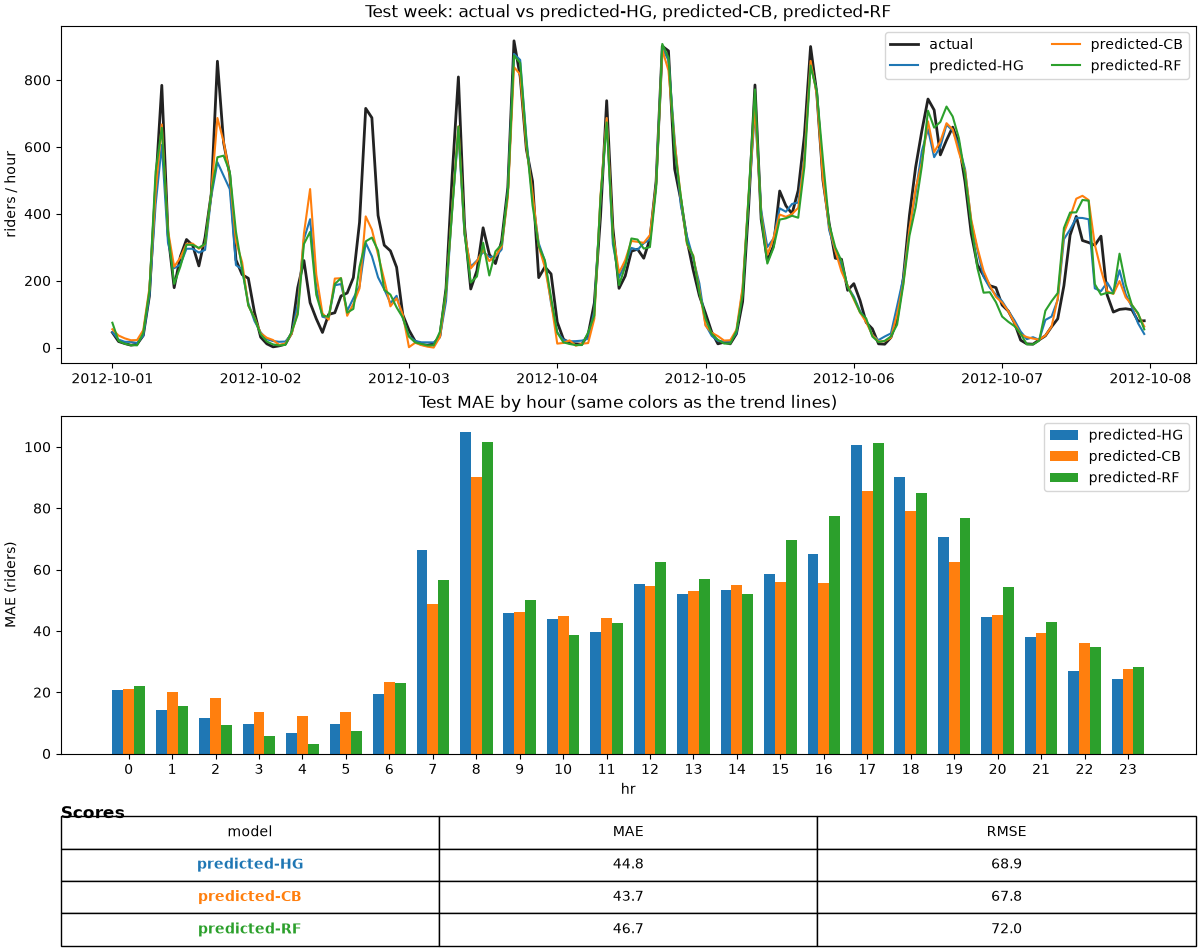
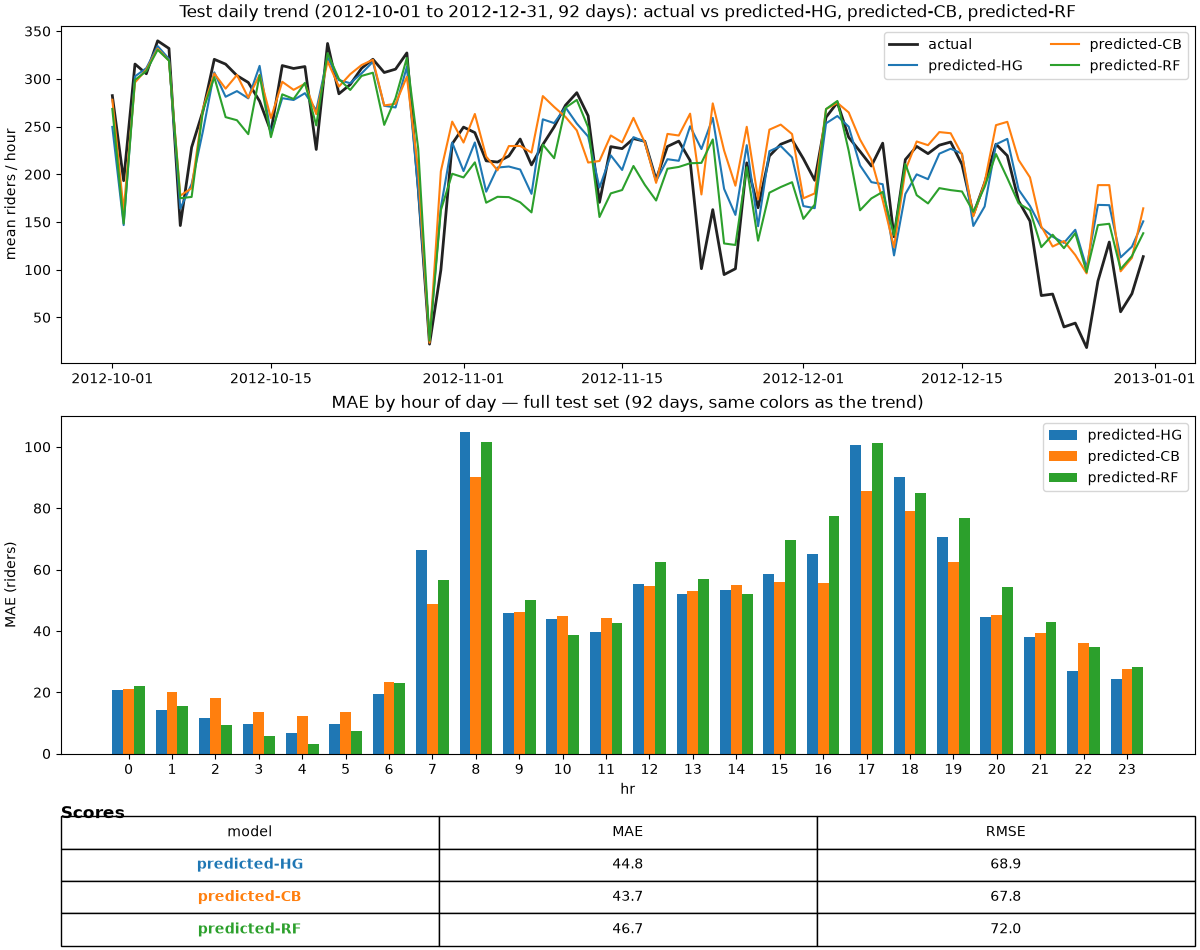
Show the full 92-day test window on the comparison daily trend.

diff --git a/src/mllearn/pipelines/nodes.py b/src/mllearn/pipelines/nodes.py
@@ -177,30 +177,39 @@ def compare_models(
         _test_error_frame(model_table, X_test, y_test, pred, cutoff)
         for pred in preds
     ]
-    week0 = frames[0][1]
+    test0 = frames[0][0]
+    test_start = pd.to_datetime(test0["datetime"].min()).date()
+    test_end = pd.to_datetime(test0["datetime"].max()).date()
+    n_days = (pd.Timestamp(test_end) - pd.Timestamp(test_start)).days + 1
 
     fig = plt.figure(figsize=(12, 9.5), layout="constrained")
     gs = fig.add_gridspec(3, 1, height_ratios=[3.4, 3.4, 1.1])
     ax_week = fig.add_subplot(gs[0])
     ax_hour = fig.add_subplot(gs[1])
     ax_scores = fig.add_subplot(gs[2])
+
+    daily_actual = test0.groupby(test0["datetime"].dt.normalize())["actual"].mean()
     ax_week.plot(
-        week0["datetime"],
-        week0["actual"],
+        daily_actual.index,
+        daily_actual.to_numpy(),
         color="#222222",
         linewidth=2,
         label="actual",
     )
-    for metrics, (test, week) in zip(rows, frames):
+    for metrics, (test, _) in zip(rows, frames):
         name = metrics["name"]
+        daily_pred = test.groupby(test["datetime"].dt.normalize())["pred"].mean()
         ax_week.plot(
-            week["datetime"],
-            week["pred"],
+            daily_pred.index,
+            daily_pred.to_numpy(),
             color=MODEL_COLORS[name],
             label=PRED_LEGEND[name],
         )
-    ax_week.set_ylabel("riders / hour")
-    ax_week.set_title("Test week: actual vs predicted-HG, predicted-CB, predicted-RF")
+    ax_week.set_ylabel("mean riders / hour")
+    ax_week.set_title(
+        f"Test daily trend ({test_start} to {test_end}, {n_days} days): "
+        "actual vs predicted-HG, predicted-CB, predicted-RF"
+    )
     ax_week.legend(loc="upper right", ncol=2)
 
     hours = list(range(24))
@@ -219,7 +228,9 @@ def compare_models(
     ax_hour.set_xticks(hours)
     ax_hour.set_xlabel("hr")
     ax_hour.set_ylabel("MAE (riders)")
-    ax_hour.set_title("Test MAE by hour (same colors as the trend lines)")
+    ax_hour.set_title(
+        f"MAE by hour of day — full test set ({n_days} days, same colors as the trend)"
+    )
     ax_hour.legend(loc="upper right")
 
     ax_scores.axis("off")
